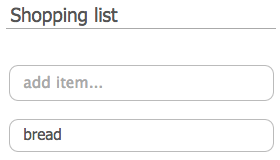
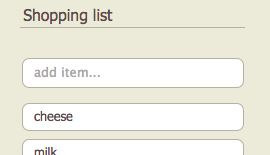
still with top-nav

diff --git a/js/index.js b/js/index.js
@@ -1,14 +1,14 @@
-$(function() {
-  $('a[href*=#]:not([href=#])').click(function() {
-    if (location.pathname.replace(/^\//,'') == this.pathname.replace(/^\//,'') && location.hostname == this.hostname) {
-      var target = $(this.hash);
-      target = target.length ? target : $('[name=' + this.hash.slice(1) +']');
-      if (target.length) {
-        $('html,body').animate({
-          scrollTop: target.offset().top
-        }, 1000);
-        return false;
-      }
-    }
-  });
-});
+// $(function() {
+//   $('a[href*=#]:not([href=#])').click(function() {
+//     if (location.pathname.replace(/^\//,'') == this.pathname.replace(/^\//,'') && location.hostname == this.hostname) {
+//       var target = $(this.hash);
+//       target = target.length ? target : $('[name=' + this.hash.slice(1) +']');
+//       if (target.length) {
+//         $('html,body').animate({
+//           scrollTop: target.offset().top
+//         }, 1000);
+//         return false;
+//       }
+//     }
+//   });
+// });

diff --git a/index.html b/index.html
@@ -2,7 +2,7 @@
 <html>
 <head>
   <meta charset="UTF-8">
-  <title>Portfolio - CodePen</title>
+  <title>Daniel Clarke - Portfolio</title>
   <link rel="stylesheet" href="css/reset.css">
   <link rel="stylesheet" href="css/style.css" media="screen" type="text/css" />
 </head>
@@ -18,7 +18,7 @@
   <h1><a name="portfolio">Portfolio</a></h1>
   <div class="project-container">
     <div class="project">
-      <a href="http://ibdan.github.io/shopping-list-interactive/">
+      <a href="http://ibdan.github.io/shopping-list-interactive/" target="_blank">
         <div class="project-image"><img src="shopping-list.png" alt="Shopping list"></div>
         <div class="project-info">
           <h2>Shopping list</h2>
@@ -48,7 +48,6 @@
   <h1><a name="contact">Contact</a></h1>
   <p>Lorem ipsum</p>
 </main>
-  <!-- <script src='http://codepen.io/assets/libs/fullpage/index.js'></script> -->
   <script src="http://code.jquery.com/jquery-1.11.0.min.js"></script>
   <script src="js/index.js"></script>
 </body>

diff --git a/css/style.css b/css/style.css
@@ -66,9 +66,10 @@ p {
   height: 320px;
   width: 280px;
   background-color: #aaa;
-  /*padding: 20px;*/
+  padding: 5px;
   margin: 20px;
   display: inline-block;
+  border-radius: 5px;
 }
 
 /*not sure why this didn't work???
@@ -77,14 +78,14 @@ p {
 }*/
 
 .project-image {
-  height: 160px;
-  width: 280px;
+  height: 155px;
+  width: 270px;
   background-color: #555;
 }
 
 .project-info {
-  height: 160px;
-  width: 280px;
+  height: 155px;
+  width: 270px;
   background-color: #777;
 }
 
